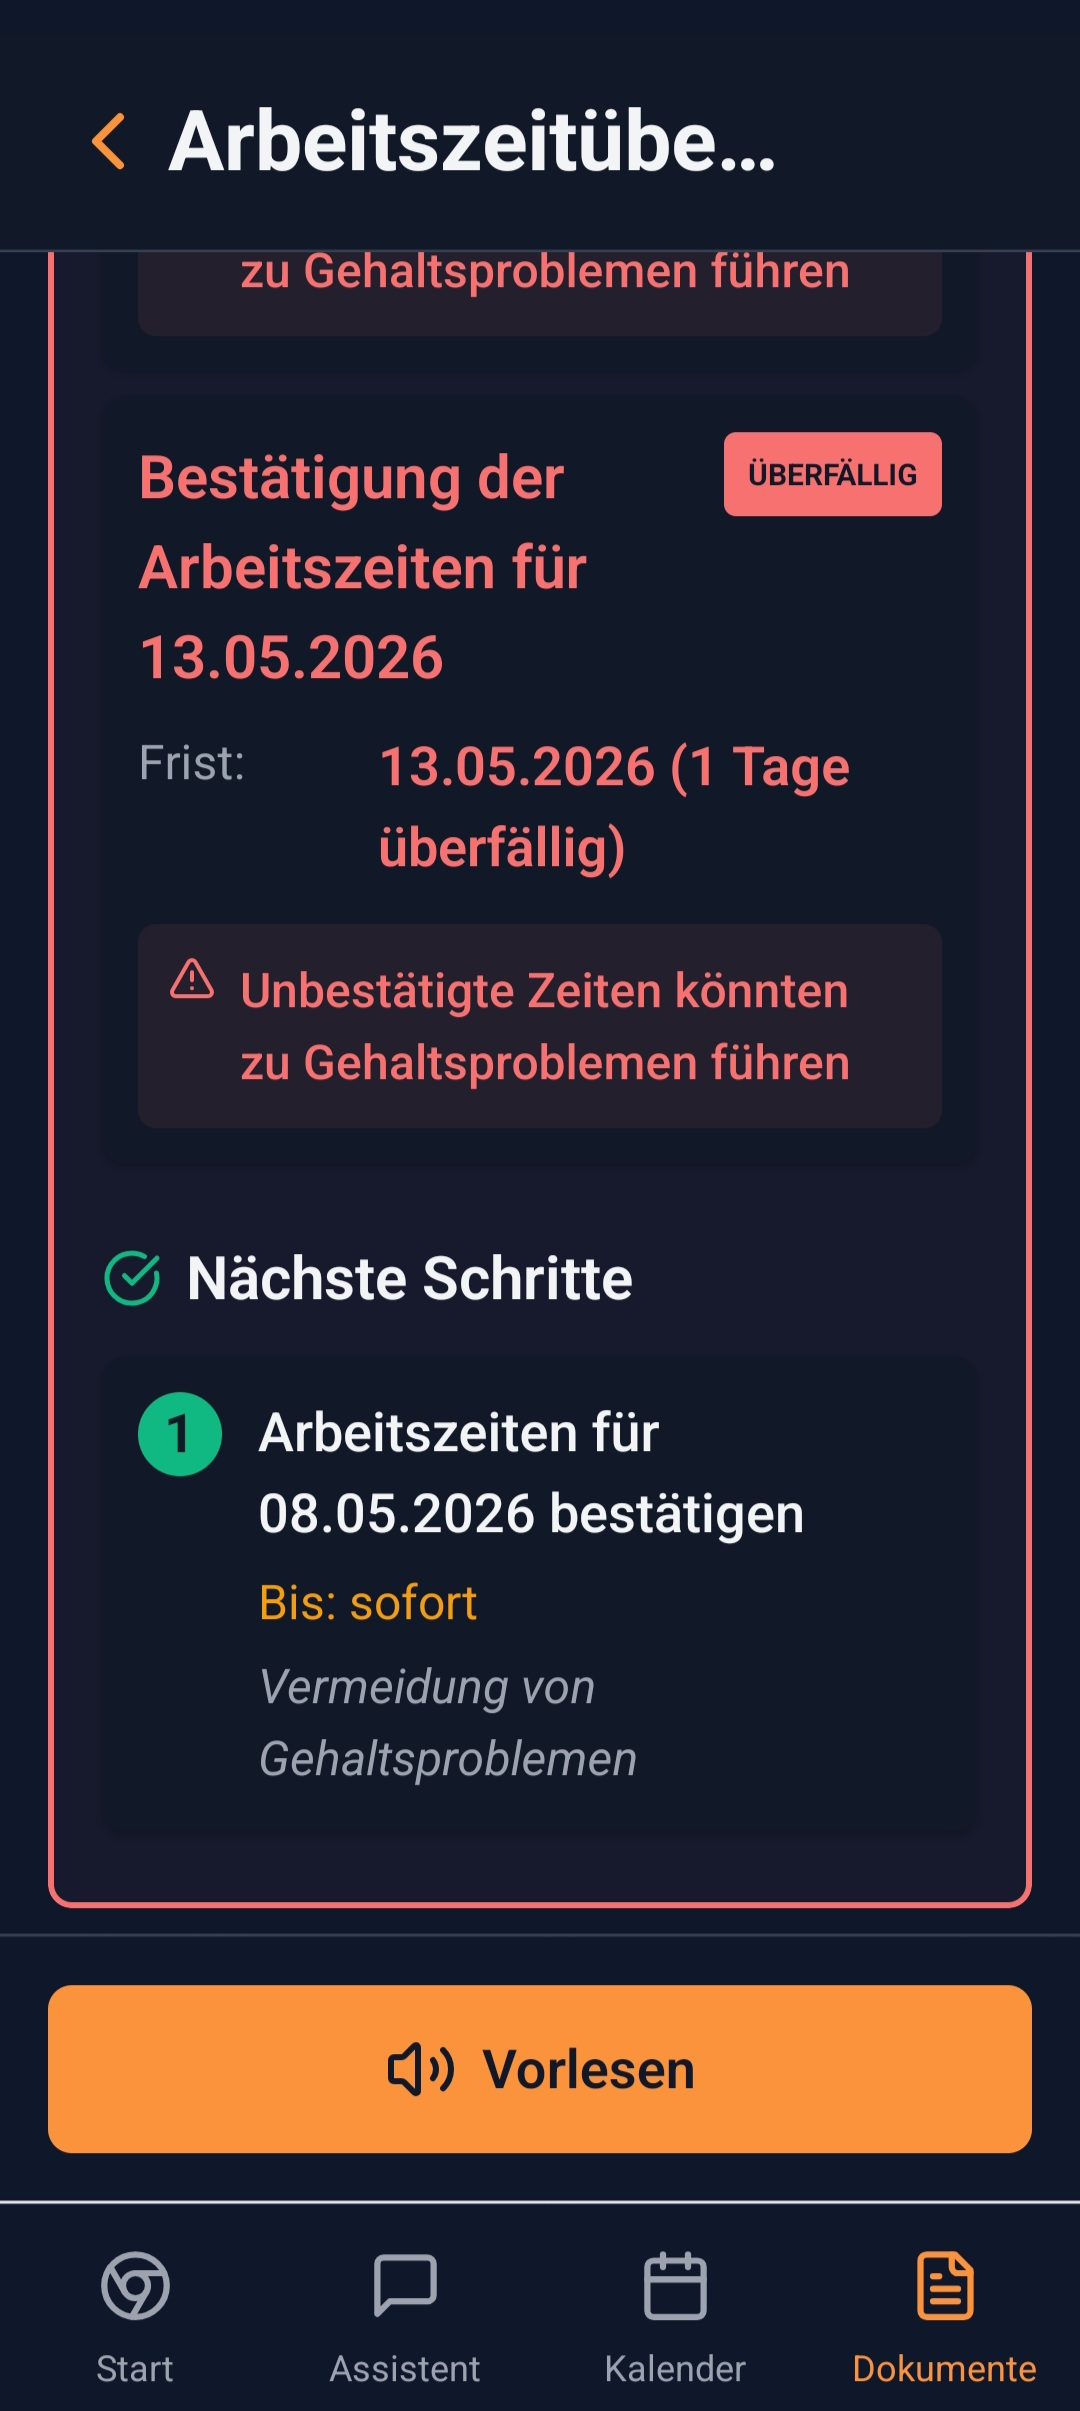
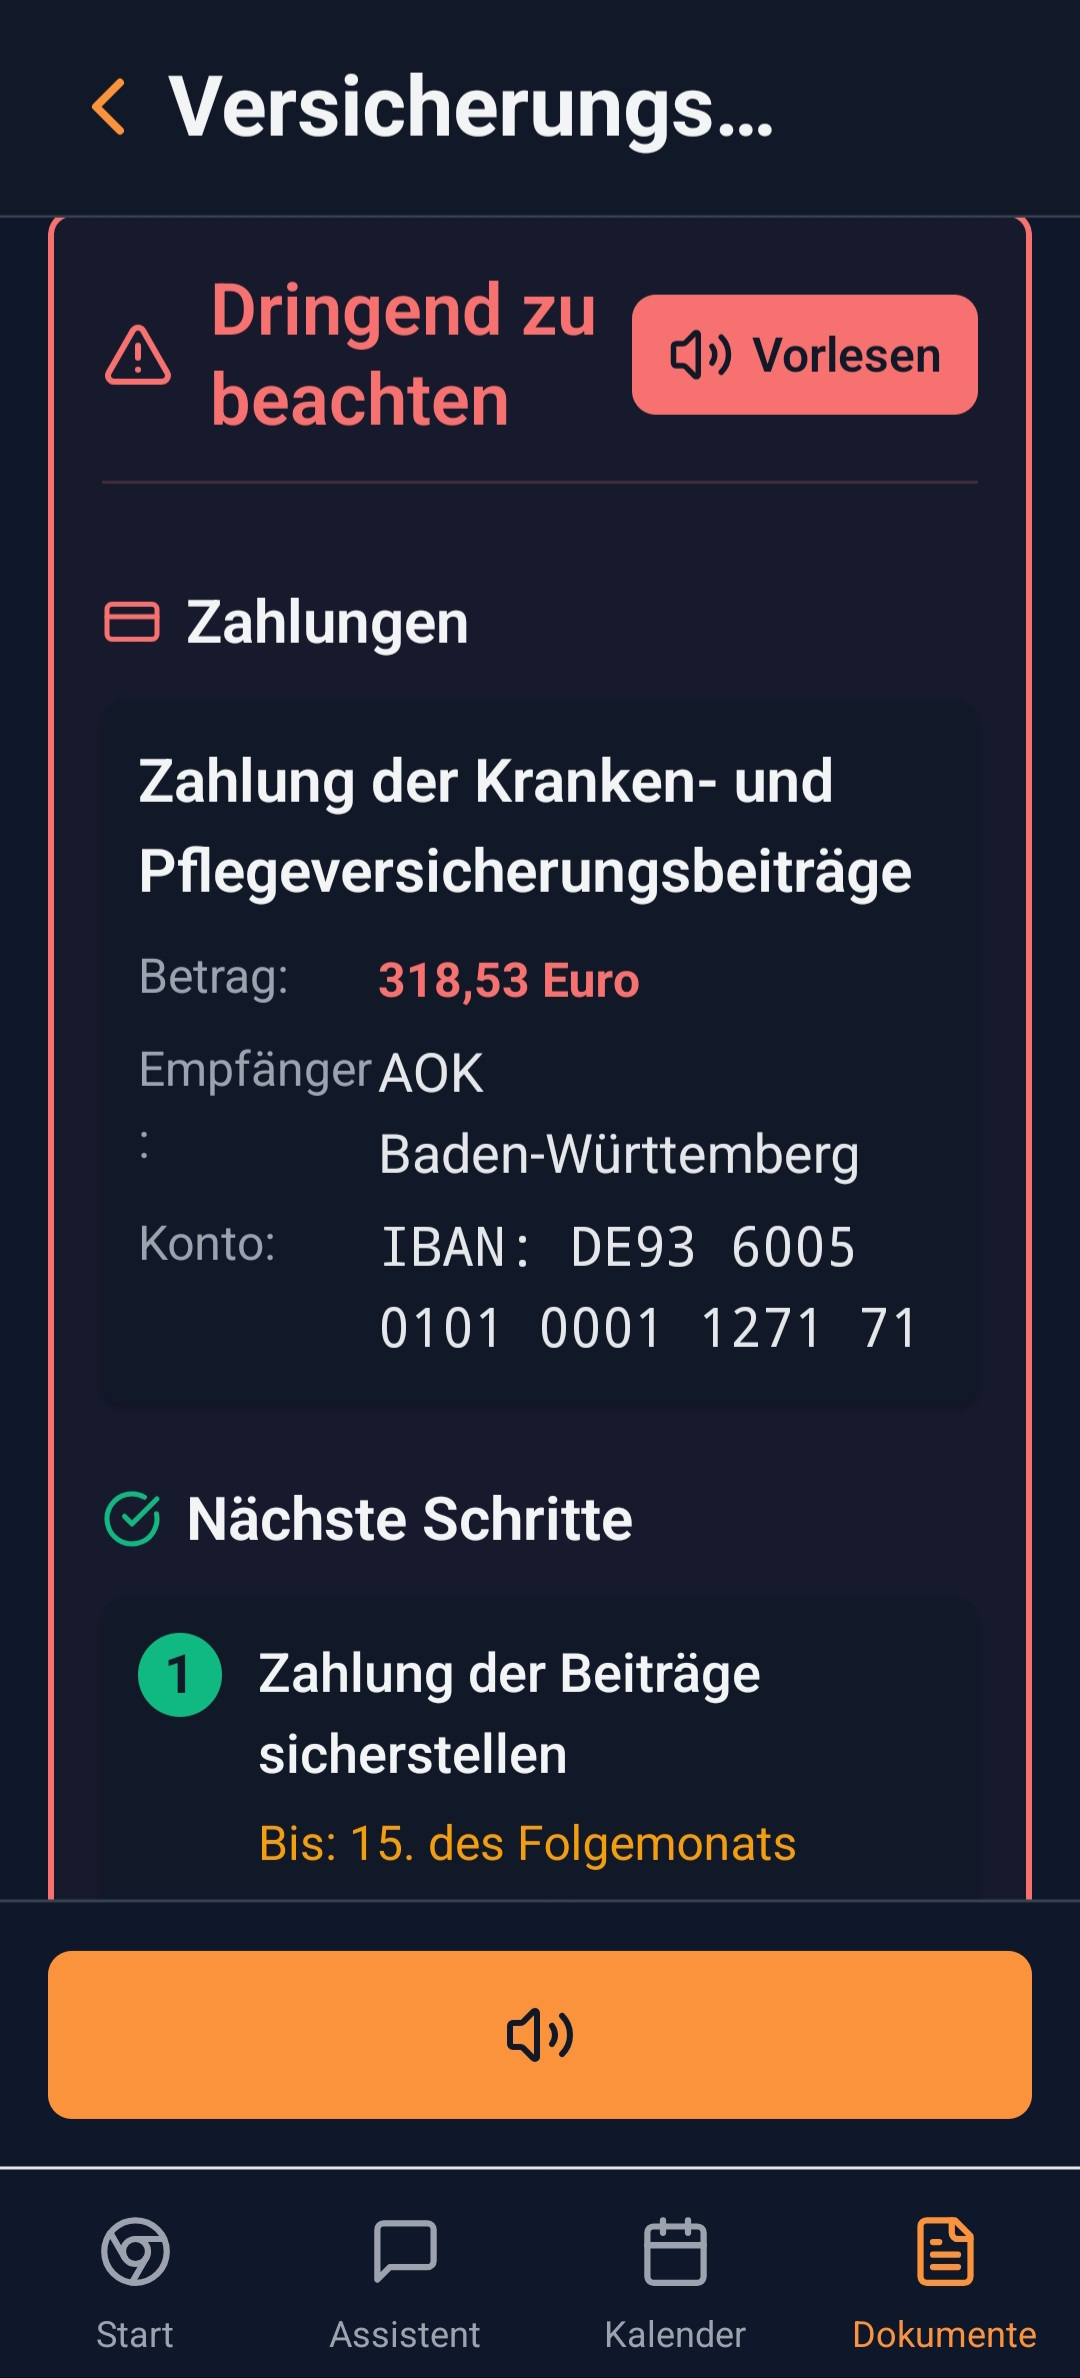
Letzte zwei Mobile-Slideshow-Screenshots austauschen
Zeigen jetzt die Dokumente-Übersicht und die KI-erklärte
Dokumentenansicht (Versicherungsbescheid) statt der alten
Dokumente/Arbeitszeitübersicht-Screens.

diff --git a/index-en.html b/index-en.html
@@ -797,8 +797,8 @@
               <div class="slide"><img src="screenshots/mobile-6.jpg" alt="Calendar" /></div>
               <div class="slide"><img src="screenshots/mobile-8.jpg" alt="Calendar appointments" /></div>
               <div class="slide"><img src="screenshots/mobile-11.jpg" alt="Calendar reminders" /></div>
-              <div class="slide"><img src="screenshots/mobile-7.jpg" alt="Documents" /></div>
-              <div class="slide"><img src="screenshots/mobile-10.jpg" alt="Working hours overview" /></div>
+              <div class="slide"><img src="screenshots/mobile-7.jpg" alt="Manage documents" /></div>
+              <div class="slide"><img src="screenshots/mobile-10.jpg" alt="Document explained simply" /></div>
             </div>
           </div>
           <div class="phone-home"></div>

diff --git a/index.html b/index.html
@@ -881,8 +881,8 @@
               <div class="slide"><img src="screenshots/mobile-6.jpg" alt="Kalender" /></div>
               <div class="slide"><img src="screenshots/mobile-8.jpg" alt="Kalender Termine" /></div>
               <div class="slide"><img src="screenshots/mobile-11.jpg" alt="Kalender Erinnerungen" /></div>
-              <div class="slide"><img src="screenshots/mobile-7.jpg" alt="Dokumente" /></div>
-              <div class="slide"><img src="screenshots/mobile-10.jpg" alt="Arbeitszeitübersicht" /></div>
+              <div class="slide"><img src="screenshots/mobile-7.jpg" alt="Dokumente verwalten" /></div>
+              <div class="slide"><img src="screenshots/mobile-10.jpg" alt="Dokument einfach erklärt" /></div>
             </div>
           </div>
           <div class="phone-home"></div>
